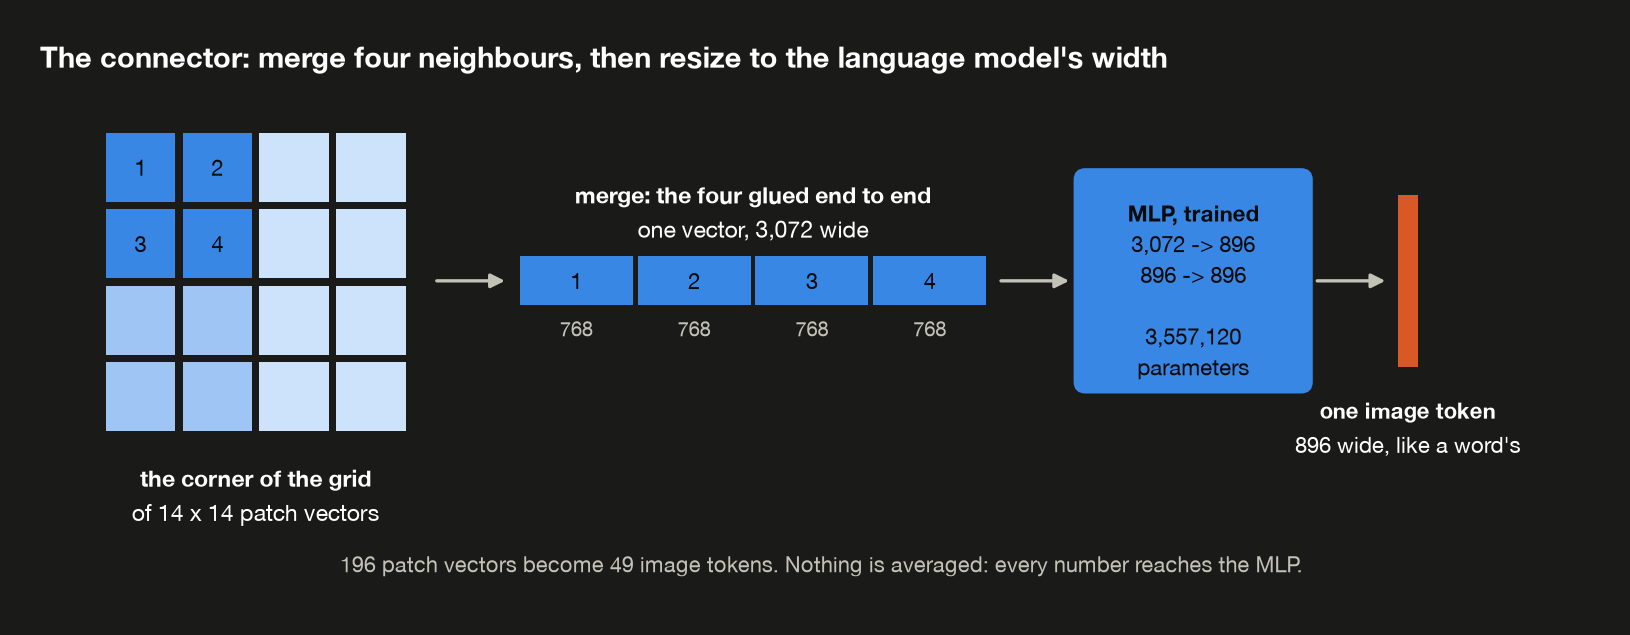
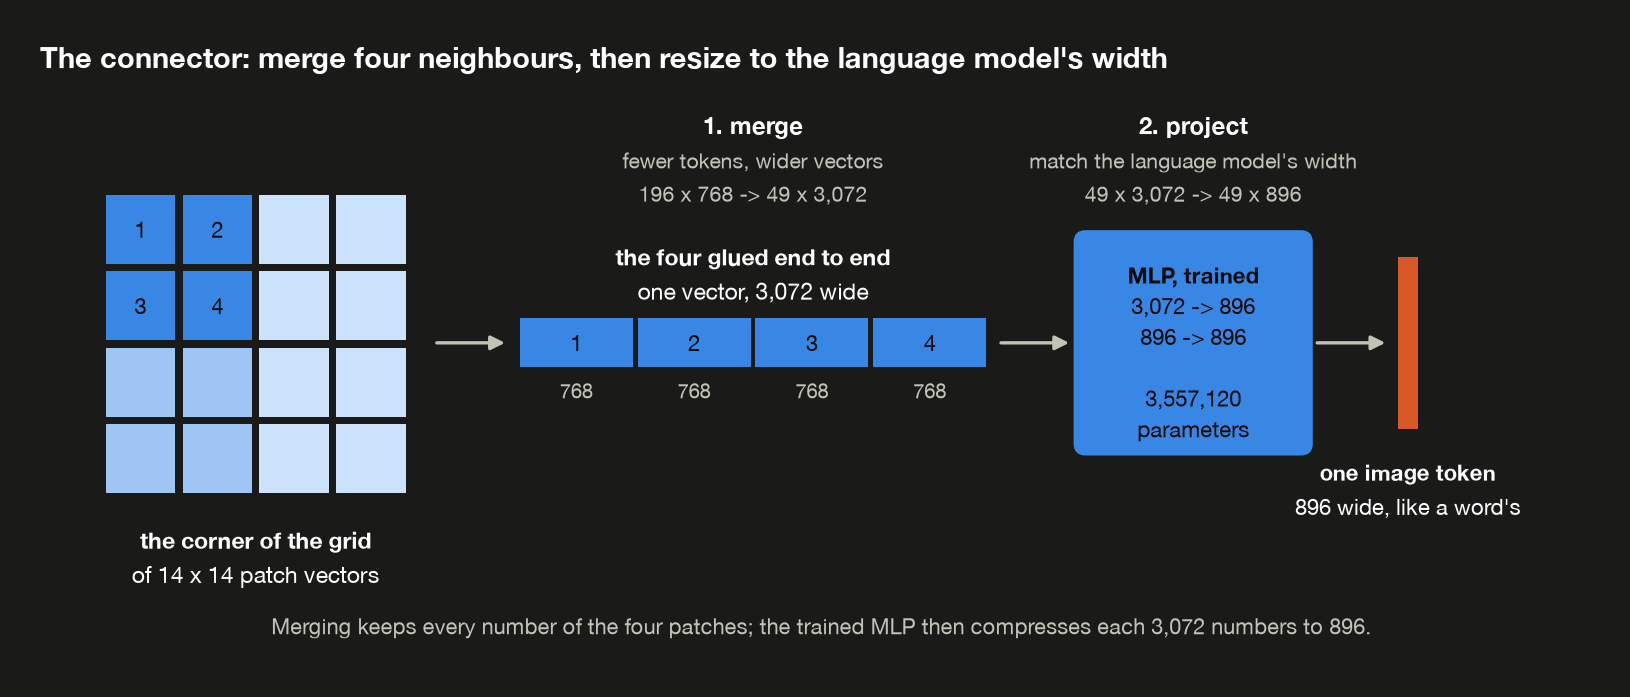
Post 7: connector section leads with why, then merge and project
Two problems up front (width, meaning) and the untrained 3% as evidence
that right width isn't right meaning; merge keeps every number, the
projection is where it compresses; parameter count as a table after the
intuition; receipt under 'checking the shapes in code'. Figure labels
the two steps.

diff --git a/_posts/2026-11-03-llm-architectures-multimodal.md b/_posts/2026-11-03-llm-architectures-multimodal.md
@@ -329,24 +329,46 @@ That's why it can stay frozen, and why the whole recipe is cheap. In the demo it
 
 ### 2. The connector {#the-connector}
 
-The encoder hands over 196 vectors, each 768 wide. The language model expects vectors 896 wide, and more importantly, it expects them to mean what its own word vectors mean. SigLIP's numbers and Qwen's numbers were learned separately, by different models with different goals, so a SigLIP vector dropped into Qwen's sequence is noise to it. The **connector** translates.
+The encoder hands over 196 vectors, each 768 wide. They can't go straight into Qwen, for two reasons.
 
-This post's connector is two steps, following the design [Qwen2-VL](https://arxiv.org/abs/2409.12191) uses:
+- **The width is wrong.** Qwen's word vectors are 896 wide; the encoder's are 768.
+- **The meaning is wrong.** This is the bigger problem. SigLIP's numbers and Qwen's numbers were learned separately, by different models with different goals. Even at the right width, a SigLIP vector dropped into Qwen's sequence would be noise to it.
+
+Fixing the width is easy: any matrix of the right shape does it. Making the vectors mean something to the language model is the hard part, and it's what the **connector** has to learn. Before training, this post's connector already turns out vectors of the right width, and the model still gives the right next word of a caption a probability of only about 3% ([§3](#stage-one)).
+
+The connector also has a practical job: cutting how many vectors the picture takes. It does both in two steps, following the design [Qwen2-VL](https://arxiv.org/abs/2409.12191) uses: **merge**, so the picture takes fewer positions, then **project**, so each vector fits the language model.
 
 <!-- FIGURE: connector -->
-![The connector: four neighbouring patch vectors glued end to end into one 3,072-wide vector, then a trained two-layer MLP turns it into one 896-wide image token](/assets/picture/2026-10-11-llm-architectures-multimodal/connector-light.png){: .light width="1000" height="390" }
-![The connector: four neighbouring patch vectors glued end to end into one 3,072-wide vector, then a trained two-layer MLP turns it into one 896-wide image token](/assets/picture/2026-10-11-llm-architectures-multimodal/connector-dark.png){: .dark width="1000" height="390" }
+![The connector in two steps: merge, four neighbouring patch vectors glued end to end, so 196 vectors 768 wide become 49 vectors 3,072 wide; then project, a trained two-layer MLP that turns each into one 896-wide image token, the language model's width](/assets/picture/2026-10-11-llm-architectures-multimodal/connector-light.png){: .light width="1000" height="428" }
+![The connector in two steps: merge, four neighbouring patch vectors glued end to end, so 196 vectors 768 wide become 49 vectors 3,072 wide; then project, a trained two-layer MLP that turns each into one 896-wide image token, the language model's width](/assets/picture/2026-10-11-llm-architectures-multimodal/connector-dark.png){: .dark width="1000" height="428" }
 
-1. **Merge each 2 × 2 block of neighbouring patches into one vector.** Four 768-wide vectors are glued end to end into one 3,072-wide vector. The 14 × 14 grid becomes a 7 × 7 grid, so 196 vectors become 49. Nothing is averaged: every number still reaches the next step. What shrinks is how many positions the language model has to read, which [§8](#what-an-image-costs) puts a price on. Qwen2-VL's paper describes the same move: "a simple MLP layer is employed after the ViT to compress adjacent 2 × 2 tokens into a single token" (§2.1).
-2. **Pass each merged vector through a small MLP.** Two layers: 3,072 numbers in, 896 out, then 896 to 896, with a GELU between them, as in the encoder (a close cousin of the SiLU in [post 1's FFN](/posts/llm-architectures-attention-and-rope/#the-ffn)). The output is 896 wide, the width of one of Qwen's word embeddings. This two-layer shape is the one [LLaVA-1.5](https://arxiv.org/abs/2310.03744) found worked better than the single linear layer of the original [LLaVA](https://arxiv.org/abs/2304.08485) (§3.3).
+**Step 1: merge four neighbouring patches into one.** Take each 2 × 2 block of neighbouring patch vectors and glue the four end to end: 4 × 768 = 3,072 numbers. The 14 × 14 grid becomes a 7 × 7 grid, so 196 vectors become 49. Nothing is averaged here: all four patches' numbers are still there, side by side, for the next step to use. What shrinks is the number of positions the language model has to read, and every position costs compute and KV cache memory, which [§8](#what-an-image-costs) puts a price on. Qwen2-VL's paper describes the same move: "a simple MLP layer is employed after the ViT to compress adjacent 2 × 2 tokens into a single token" (§2.1).
 
-The same two steps as a formula. Call one merged vector $h$, its 3,072 numbers in a row. The first layer has a learned matrix $W_1$, 3,072 × 896, and a learned list of 896 numbers $b_1$ added after it, called a **bias**. The second layer has its own $W_2$, 896 × 896, and $b_2$. The image token $z$ that comes out is
+**Step 2: project each merged vector to the language model's width.** Each one goes through a small MLP of two layers: the first takes 3,072 numbers to 896, then a GELU (as in the encoder, and a close cousin of the SiLU in [post 1's FFN](/posts/llm-architectures-attention-and-rope/#the-ffn)), then the second takes 896 to 896:
+
+`3,072 → layer 1 → 896 → GELU → layer 2 → 896`
+
+This is where the vector shrinks: 3,072 numbers become 896, so the first layer has to learn which combinations of the four patches are worth keeping. What comes out is 896 wide, the width of one of Qwen's word embeddings. This two-layer shape is the one [LLaVA-1.5](https://arxiv.org/abs/2310.03744) found worked better than the single linear layer of the original [LLaVA](https://arxiv.org/abs/2304.08485) (§3.3).
+
+The same step as a formula. Call one merged vector $h$, its 3,072 numbers in a row. The first layer has a learned matrix $W_1$, 3,072 × 896, and a learned list of 896 numbers $b_1$ added after it, called a **bias**. The second layer has its own $W_2$, 896 × 896, and $b_2$. The image token $z$ that comes out is
 
 $$z = \mathrm{GELU}(h\,W_1 + b_1)\,W_2 + b_2$$
 
-Those four pieces are the whole connector, and counting their numbers gives its size: $3{,}072 \times 896 + 896$ for the first layer, plus $896 \times 896 + 896$ for the second, is $3{,}557{,}120$. Without the merge, $h$ is one 768-wide patch vector, $W_1$ shrinks to 768 × 896, and the total is 1,492,736. Both appear in the receipt below.
+**How small is it?** Those four pieces are the whole connector. Counting their numbers:
 
-([`the_connector`](https://github.com/bearbearyu1223/llm-architectures-refresher/blob/main/src/llmrefresher/demos/d07_multimodal.py))
+| piece | shape | numbers |
+|---|---|---|
+| $W_1$ | 3,072 × 896 | 2,752,512 |
+| $b_1$ | 896 | 896 |
+| $W_2$ | 896 × 896 | 802,816 |
+| $b_2$ | 896 | 896 |
+| total | | **3,557,120** |
+
+That's about 0.7% of the language model's 494,032,768 ([post 6](/posts/llm-architectures-lora/) counted them), and in stage 1 it's the only part that trains: SigLIP and Qwen stay frozen. Nothing teaches the encoder to see or the language model to read. The connector learns a small bridge between two models that already work.
+
+Without the merge, $h$ would be one 768-wide patch vector, $W_1$ would shrink to 768 × 896, and the total would be 1,492,736: fewer parameters, but four times as many positions for the language model to read.
+
+Checking the shapes and counts in code ([`the_connector`](https://github.com/bearbearyu1223/llm-architectures-refresher/blob/main/src/llmrefresher/demos/d07_multimodal.py)):
 
 <!-- RECEIPT: s2a -->
 ```text
@@ -363,7 +385,6 @@ Those four pieces are the whole connector, and counting their numbers gives its 
     without the merge (768 in)       1,492,736
 ```
 
-The connector is 3.56 million parameters, about 0.7% of the language model's 494,032,768 ([post 6](/posts/llm-architectures-lora/) counted them), and it's the only part stage 1 trains.
 
 #### Where the picture goes {#where-the-picture-goes}
 
